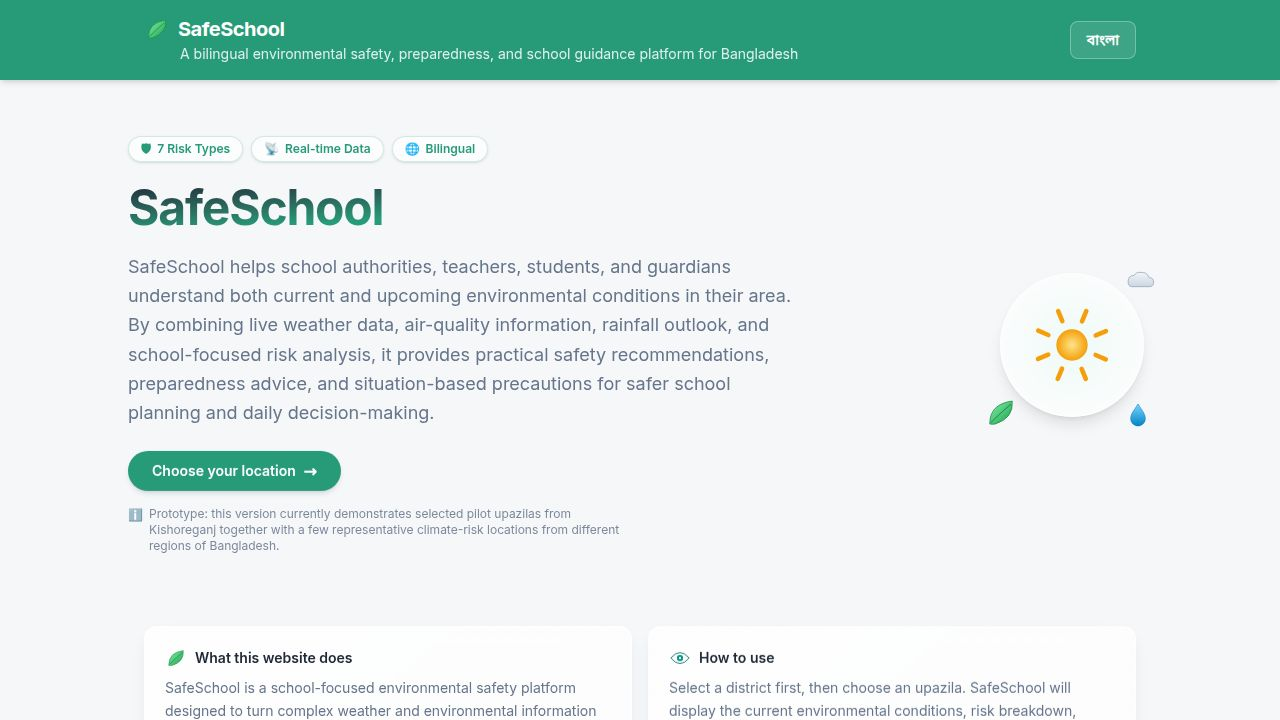
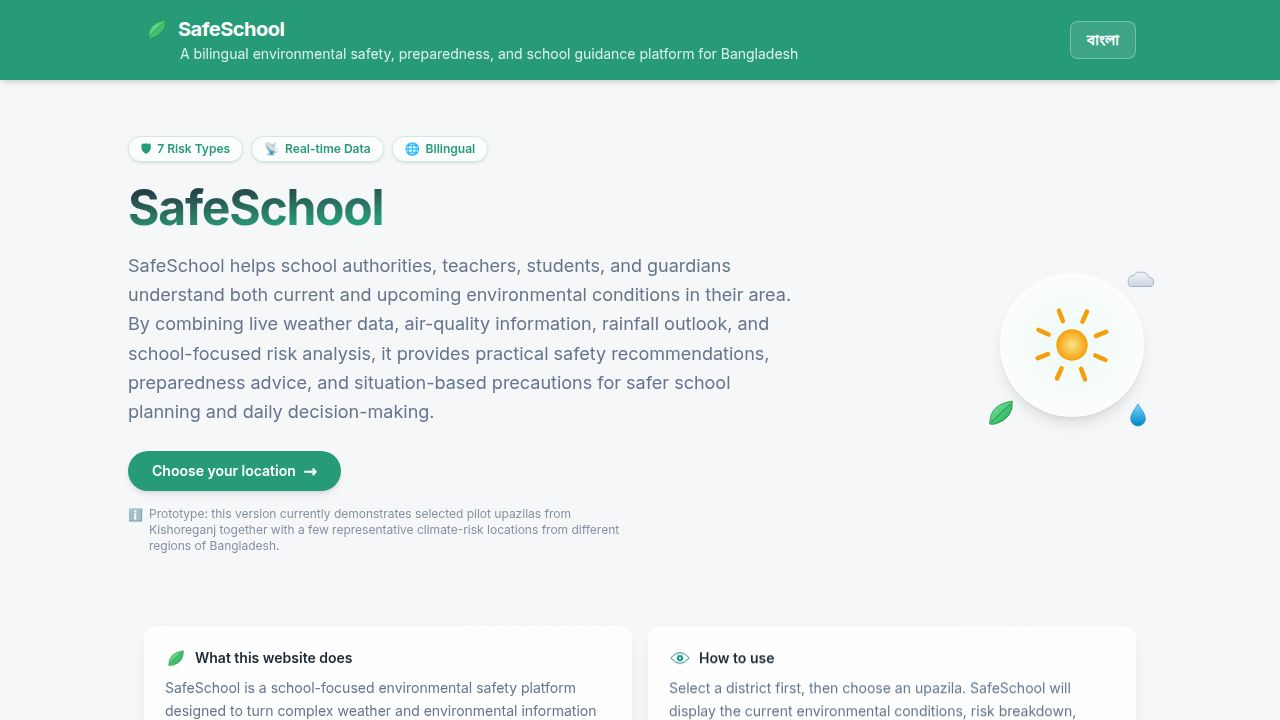
Task #103: Footer — remove brand block, 2-col grid, compact py-6 padding

Changed region(s): [[0.0938, 0.3667, 0.625, 0.5806], [0.8125, 0.4889, 0.875, 0.5194], [0.8438, 0.4278, 0.875, 0.4583]]

diff --git a/artifacts/schoolsafe-bd/src/components/Footer.tsx b/artifacts/schoolsafe-bd/src/components/Footer.tsx
@@ -9,7 +9,6 @@
 import { Mail, Phone, Facebook, MessageCircle, Twitter } from "lucide-react";
 import { useLanguage } from "@/contexts/LanguageContext";
 import { useSiteSettings } from "@/contexts/SiteSettingsContext";
-import AnimatedWeatherIcon from "@/components/animated/AnimatedWeatherIcon";
 
 export default function Footer() {
   const { t } = useLanguage();
@@ -28,23 +27,11 @@ export default function Footer() {
     <footer className="no-print bg-primary text-primary-foreground mt-8">
 
       {/* ── Main grid ──────────────────────────────────── */}
-      <div className="max-w-5xl mx-auto px-6 py-10">
-        <div className="grid grid-cols-1 md:grid-cols-3 gap-8 md:gap-6">
+      <div className="max-w-5xl mx-auto px-6 py-6">
+        <div className="grid grid-cols-1 md:grid-cols-2 gap-6">
 
-          {/* Column 1 — Brand */}
+          {/* Column 1 — About */}
           <div className="flex flex-col gap-3">
-            <div className="flex items-center gap-2">
-              <AnimatedWeatherIcon kind="leaf" size={24} />
-              <span className="text-lg font-bold tracking-tight leading-none">
-                {t("siteName")}
-              </span>
-            </div>
-            {/* Mobile-only separator */}
-            <hr className="md:hidden border-white/15 mt-1" />
-          </div>
-
-          {/* Column 2 — About */}
-          <div className="flex flex-col gap-3 md:border-l md:border-white/15 md:pl-6">
             <h2 className="text-xs font-semibold uppercase tracking-widest text-white/50">
               {t("siteName")}
             </h2>